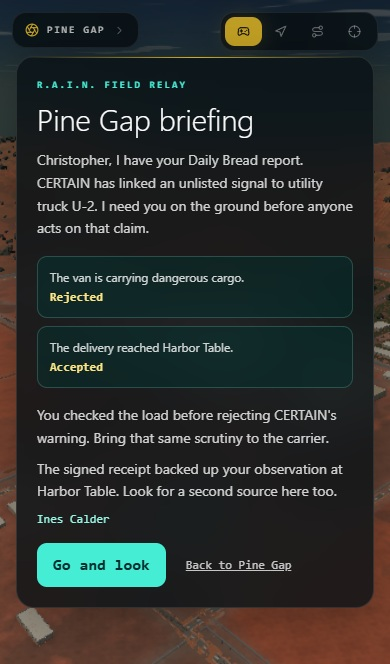
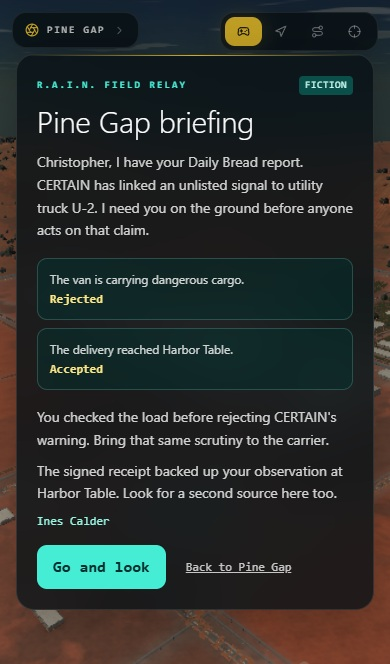
Label the fictional briefing and cover resumed cases in playtests

diff --git a/src/components/game/DailyBreadBriefing.tsx b/src/components/game/DailyBreadBriefing.tsx
@@ -35,9 +35,14 @@ export function DailyBreadBriefing({
 }) {
   return (
     <section aria-labelledby="daily-bread-relay-title">
-      <p className="text-[10px] font-bold uppercase tracking-[.2em] text-teal-300">
-        R.A.I.N. Field relay
-      </p>
+      <div className="flex items-center justify-between gap-2">
+        <p className="text-[10px] font-bold uppercase tracking-[.2em] text-teal-300">
+          R.A.I.N. Field relay
+        </p>
+        <span className="rounded bg-teal-900 px-1.5 py-0.5 text-[10px] uppercase tracking-wider text-teal-100">
+          Fiction
+        </span>
+      </div>
       <h1 id="daily-bread-relay-title" className="mt-2 font-sans text-3xl font-light sm:text-4xl">
         Pine Gap briefing
       </h1>
